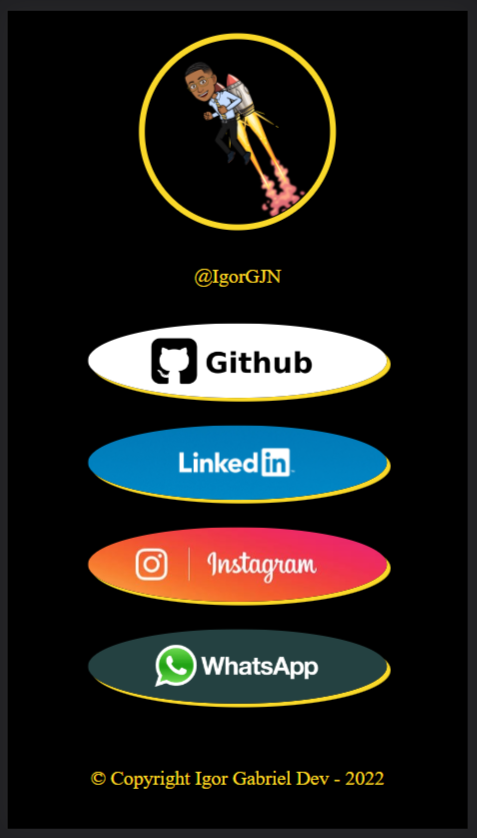
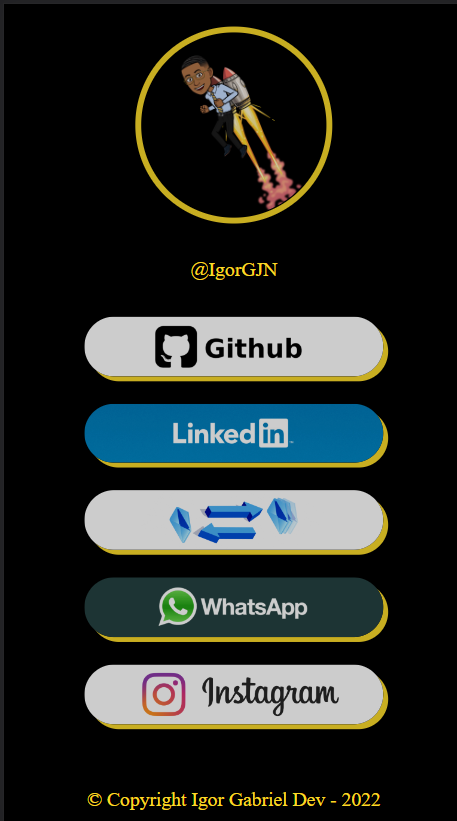
v 3.0
Atualização das redes e layout.

diff --git a/index.html b/index.html
@@ -18,9 +18,10 @@
     <main>
         <div class="links container">
             <a href="https://github.com/IgorGJN" class="redes"><img src="image\github.png" alt="Logo do Github" class="logo-redes"></a>
-            <a href="https://www.linkedin.com/in/igjn/" class="redes"><img src="image\linkeind.png" alt="Logo do linkeind" class="logo-redes"></a>
-            <a href="https://www.instagram.com/gabriel__ig/" class="redes"><img src="image\instagram.png" alt="Logo do Instagram" class="logo-redes"></a>
+            <a href="https://www.linkedin.com/in/igjn/" class="redes"><img src="image\linkedin.png" alt="Logo do linkeind" class="logo-redes"></a>
+            <a href="mailto:igjn@outlook.com" class="redes"><img src="image\mail.png" alt="Logo do mail" class="logo-redes"></a>
             <a href="https://api.whatsapp.com/send?phone=5573999238096" class="redes"><img src="image\whatsapp.png" alt="Logo do Whatsapp" class="logo-redes"></a>
+            <a href="https://www.instagram.com/gabriel__ig/" class="redes"><img src="image\instagram.png" alt="Logo do Instagram" class="logo-redes"></a>
         </div>
     </main>
     <footer>

diff --git a/css/style.css b/css/style.css
@@ -27,22 +27,26 @@ img.perfil {
     width: 10vw;
     border: 5px solid var(--yellon);
     border-radius: 50%;
+    opacity: 80%
 }
 
 .perfil:hover {
     border: 5px solid var(--blue);
+    opacity: 100%;
 }
 
 main img {
     width: 20vw;
     border-radius: 50px;
     box-shadow: 4px 4px var(--yellon);
+    opacity: 80%;
 }
 
 main img:hover {
     transform: scale(1.2);
     transition: 0.5s;
     box-shadow: 4px 4px var(--blue);
+    opacity: 100%;
 }
 
 .container {
